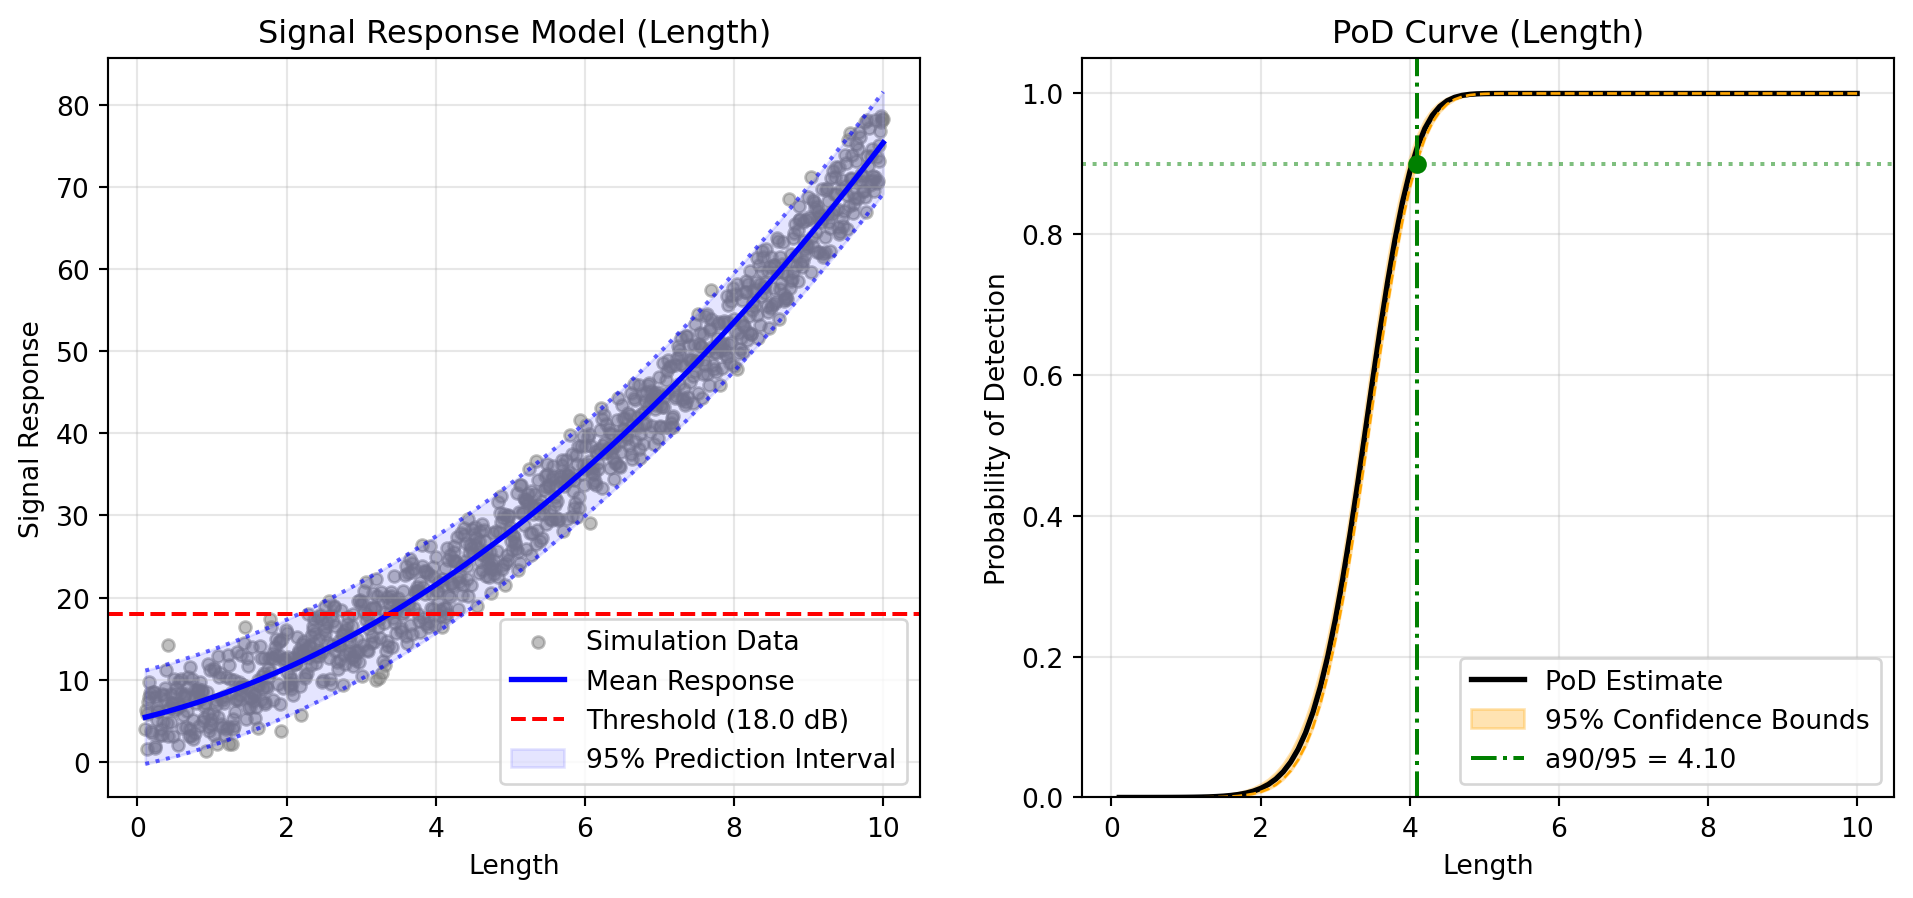
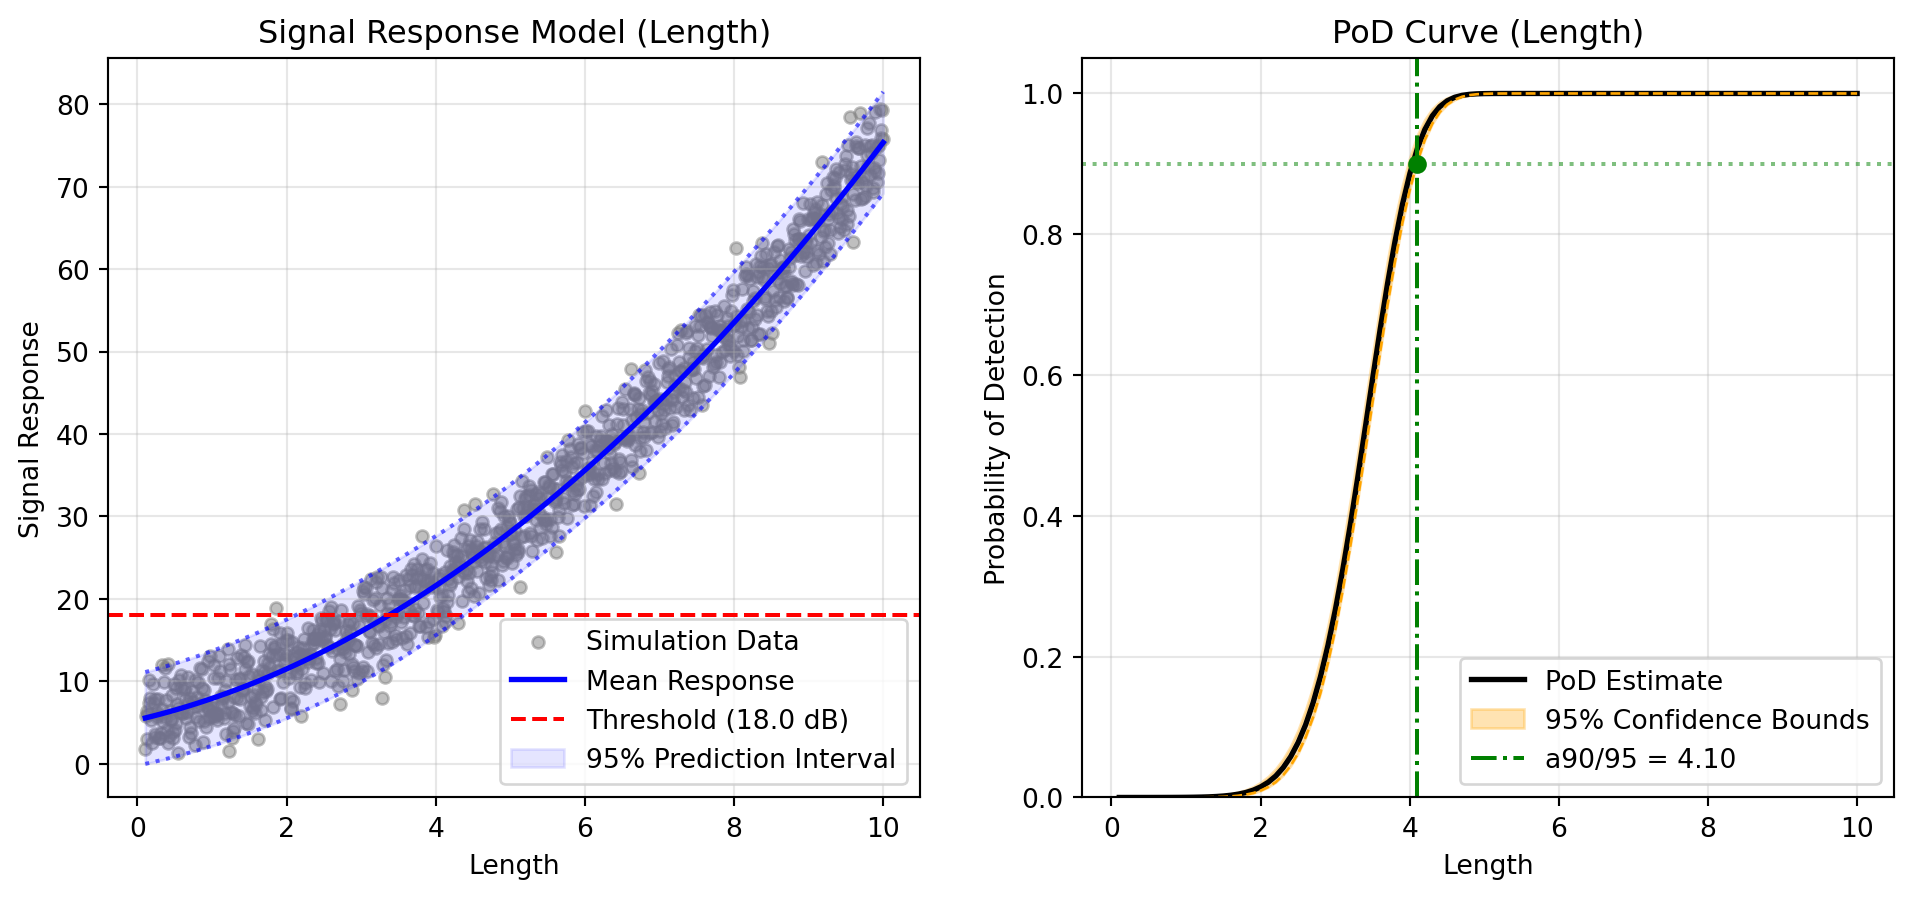
Built site for gh-pages

diff --git a/docs/quick_start_oop.html b/docs/quick_start_oop.html
@@ -433,7 +433,7 @@ pre > code.sourceCode > span > a:first-child::before { text-decoration: underlin
 <section id="setup-flawed-data-generation" class="level3">
 <h3 class="anchored" data-anchor-id="setup-flawed-data-generation">1. Setup &amp; “Flawed” Data Generation</h3>
 <p>First, we define our physics simulation and create a dataset with a deliberate gap (missing data between 3mm and 7mm).</p>
-<div id="e488e701" class="cell" data-execution_count="1">
+<div id="3f00dba5" class="cell" data-execution_count="1">
 <div class="code-copy-outer-scaffold"><div class="sourceCode cell-code" id="cb1"><pre class="sourceCode python code-with-copy"><code class="sourceCode python"><span id="cb1-1"><a href="#cb1-1" aria-hidden="true" tabindex="-1"></a><span class="im">import</span> numpy <span class="im">as</span> np</span>
 <span id="cb1-2"><a href="#cb1-2" aria-hidden="true" tabindex="-1"></a><span class="im">import</span> pandas <span class="im">as</span> pd</span>
 <span id="cb1-3"><a href="#cb1-3" aria-hidden="true" tabindex="-1"></a><span class="im">import</span> digiqual <span class="im">as</span> dq</span>
@@ -483,7 +483,7 @@ pre > code.sourceCode > span > a:first-child::before { text-decoration: underlin
 <section id="diagnosis-detecting-the-issue" class="level3">
 <h3 class="anchored" data-anchor-id="diagnosis-detecting-the-issue">2. Diagnosis (Detecting the Issue)</h3>
 <p>We now ask the study manager to diagnose the health of our experiment. We expect it to flag the Input Coverage test because of the gap we created.</p>
-<div id="aa82c071" class="cell" data-execution_count="2">
+<div id="60cc6ecb" class="cell" data-execution_count="2">
 <div class="code-copy-outer-scaffold"><div class="sourceCode cell-code" id="cb3"><pre class="sourceCode python code-with-copy"><code class="sourceCode python"><span id="cb3-1"><a href="#cb3-1" aria-hidden="true" tabindex="-1"></a>study.diagnose()</span></code></pre></div><button title="Copy to Clipboard" class="code-copy-button"><i class="bi"></i></button></div>
 <div class="cell-output cell-output-stdout">
 <pre><code>Running validation...
@@ -511,7 +511,7 @@ Checking sample sufficiency...</code></pre>
 <td>Input Coverage</td>
 <td>Length</td>
 <td>Max Gap Ratio</td>
-<td>0.4345</td>
+<td>0.4531</td>
 <td>False</td>
 </tr>
 <tr class="even">
@@ -519,7 +519,7 @@ Checking sample sufficiency...</code></pre>
 <td>Input Coverage</td>
 <td>Angle</td>
 <td>Max Gap Ratio</td>
-<td>0.0746</td>
+<td>0.0708</td>
 <td>True</td>
 </tr>
 <tr class="odd">
@@ -527,7 +527,7 @@ Checking sample sufficiency...</code></pre>
 <td>Input Coverage</td>
 <td>Roughness</td>
 <td>Max Gap Ratio</td>
-<td>0.0975</td>
+<td>0.0757</td>
 <td>True</td>
 </tr>
 <tr class="even">
@@ -535,7 +535,7 @@ Checking sample sufficiency...</code></pre>
 <td>Model Fit (CV)</td>
 <td>Signal</td>
 <td>Mean R2 Score</td>
-<td>0.9958</td>
+<td>0.9794</td>
 <td>True</td>
 </tr>
 <tr class="odd">
@@ -543,7 +543,7 @@ Checking sample sufficiency...</code></pre>
 <td>Bootstrap Convergence</td>
 <td>Signal</td>
 <td>Relative CI Width</td>
-<td>0.1035</td>
+<td>0.2036</td>
 <td>False</td>
 </tr>
 </tbody>
@@ -556,7 +556,7 @@ Checking sample sufficiency...</code></pre>
 <section id="adaptive-refinement-the-fix" class="level3">
 <h3 class="anchored" data-anchor-id="adaptive-refinement-the-fix">3. Adaptive Refinement (The Fix)</h3>
 <p>Instead of manually guessing where to add points, we use refine(). The study manager automatically detects the gap and generates targeted samples to fill it.</p>
-<div id="1e2c8f09" class="cell" data-execution_count="3">
+<div id="364c72f4" class="cell" data-execution_count="3">
 <div class="code-copy-outer-scaffold"><div class="sourceCode cell-code" id="cb5"><pre class="sourceCode python code-with-copy"><code class="sourceCode python"><span id="cb5-1"><a href="#cb5-1" aria-hidden="true" tabindex="-1"></a><span class="co"># Generate active learning samples (20 points to fill the gap)</span></span>
 <span id="cb5-2"><a href="#cb5-2" aria-hidden="true" tabindex="-1"></a>new_samples <span class="op">=</span> study.refine(n_points<span class="op">=</span><span class="dv">20</span>)</span>
 <span id="cb5-3"><a href="#cb5-3" aria-hidden="true" tabindex="-1"></a></span>
@@ -586,7 +586,7 @@ Checking sample sufficiency...</code></pre>
 </div>
 </div>
 <p>Now we verify that the issue is resolved:</p>
-<div id="601e1495" class="cell" data-execution_count="4">
+<div id="797e5dbe" class="cell" data-execution_count="4">
 <div class="code-copy-outer-scaffold"><div class="sourceCode cell-code" id="cb8"><pre class="sourceCode python code-with-copy"><code class="sourceCode python"><span id="cb8-1"><a href="#cb8-1" aria-hidden="true" tabindex="-1"></a><span class="co"># Re-run diagnostics to confirm the green light</span></span>
 <span id="cb8-2"><a href="#cb8-2" aria-hidden="true" tabindex="-1"></a>study.diagnose()</span></code></pre></div><button title="Copy to Clipboard" class="code-copy-button"><i class="bi"></i></button></div>
 <div class="cell-output cell-output-stdout">
@@ -615,7 +615,7 @@ Checking sample sufficiency...</code></pre>
 <td>Input Coverage</td>
 <td>Length</td>
 <td>Max Gap Ratio</td>
-<td>0.0454</td>
+<td>0.0530</td>
 <td>True</td>
 </tr>
 <tr class="even">
@@ -623,7 +623,7 @@ Checking sample sufficiency...</code></pre>
 <td>Input Coverage</td>
 <td>Angle</td>
 <td>Max Gap Ratio</td>
-<td>0.0629</td>
+<td>0.0693</td>
 <td>True</td>
 </tr>
 <tr class="odd">
@@ -631,7 +631,7 @@ Checking sample sufficiency...</code></pre>
 <td>Input Coverage</td>
 <td>Roughness</td>
 <td>Max Gap Ratio</td>
-<td>0.0643</td>
+<td>0.0515</td>
 <td>True</td>
 </tr>
 <tr class="even">
@@ -639,7 +639,7 @@ Checking sample sufficiency...</code></pre>
 <td>Model Fit (CV)</td>
 <td>Signal</td>
 <td>Mean R2 Score</td>
-<td>0.9968</td>
+<td>0.9972</td>
 <td>True</td>
 </tr>
 <tr class="odd">
@@ -647,7 +647,7 @@ Checking sample sufficiency...</code></pre>
 <td>Bootstrap Convergence</td>
 <td>Signal</td>
 <td>Relative CI Width</td>
-<td>0.0344</td>
+<td>0.0276</td>
 <td>True</td>
 </tr>
 </tbody>
@@ -667,9 +667,9 @@ Checking sample sufficiency...</code></pre>
 <div class="cell-output cell-output-stdout">
 <pre><code>--- Starting Reliability Analysis (PoI: Length) ---
 1. Selecting Mean Model (Cross-Validation)...
-   -&gt; Selected Polynomial Degree: 3
+   -&gt; Selected Polynomial Degree: 10
 2. Fitting Variance Model (Kernel Smoothing)...
-   -&gt; Smoothing Bandwidth: 0.9673
+   -&gt; Smoothing Bandwidth: 0.9143
 3. Inferring Error Distribution (AIC)...
    -&gt; Selected Distribution: norm
 4. Computing PoD Curve...

diff --git a/docs/quick_start_function.html b/docs/quick_start_function.html
@@ -462,7 +462,7 @@ window.Quarto = {
 <section id="generating-an-experimental-design" class="level3">
 <h3 class="anchored" data-anchor-id="generating-an-experimental-design">Generating an Experimental Design</h3>
 <p>Create a Latin Hypercube design for a simulation study involving defect size (<span class="math inline">\(a\)</span>), angle (<span class="math inline">\(\theta\)</span>) and roughness (<span class="math inline">\(\sigma_{R}\)</span>).</p>
-<div id="19460ca4" class="cell" data-execution_count="2">
+<div id="2734a6fe" class="cell" data-execution_count="2">
 <div class="code-copy-outer-scaffold"><div class="sourceCode cell-code" id="cb1"><pre class="sourceCode python code-with-copy"><code class="sourceCode python"><span id="cb1-1"><a href="#cb1-1" aria-hidden="true" tabindex="-1"></a><span class="im">import</span> pandas <span class="im">as</span> pd</span>
 <span id="cb1-2"><a href="#cb1-2" aria-hidden="true" tabindex="-1"></a><span class="im">import</span> numpy <span class="im">as</span> np</span>
 <span id="cb1-3"><a href="#cb1-3" aria-hidden="true" tabindex="-1"></a><span class="im">from</span> digiqual.sampling <span class="im">import</span> generate_lhs</span>
@@ -533,7 +533,7 @@ window.Quarto = {
 <section id="validating-simulation-data" class="level3">
 <h3 class="anchored" data-anchor-id="validating-simulation-data">Validating Simulation Data</h3>
 <p>Once you have your simulation results, ensure they are ready for PoD analysis.</p>
-<div id="12525562" class="cell" data-execution_count="3">
+<div id="f8a97d8a" class="cell" data-execution_count="3">
 <div class="code-copy-outer-scaffold"><div class="sourceCode cell-code" id="cb2"><pre class="sourceCode python code-with-copy"><code class="sourceCode python"><span id="cb2-1"><a href="#cb2-1" aria-hidden="true" tabindex="-1"></a><span class="im">from</span> digiqual.diagnostics <span class="im">import</span> validate_simulation</span>
 <span id="cb2-2"><a href="#cb2-2" aria-hidden="true" tabindex="-1"></a></span>
 <span id="cb2-3"><a href="#cb2-3" aria-hidden="true" tabindex="-1"></a><span class="kw">def</span> apply_physics(df):</span>
@@ -569,7 +569,7 @@ window.Quarto = {
 <section id="checking-sample-sufficiency" class="level3">
 <h3 class="anchored" data-anchor-id="checking-sample-sufficiency">Checking Sample Sufficiency</h3>
 <p>We have validated data so now we want to check if we have enough samples to produce an accurate PoD Curve.</p>
-<div id="a2f680f0" class="cell" data-execution_count="4">
+<div id="67380f5f" class="cell" data-execution_count="4">
 <div class="code-copy-outer-scaffold"><div class="sourceCode cell-code" id="cb3"><pre class="sourceCode python code-with-copy"><code class="sourceCode python"><span id="cb3-1"><a href="#cb3-1" aria-hidden="true" tabindex="-1"></a><span class="im">from</span> digiqual.diagnostics <span class="im">import</span> sample_sufficiency</span>
 <span id="cb3-2"><a href="#cb3-2" aria-hidden="true" tabindex="-1"></a></span>
 <span id="cb3-3"><a href="#cb3-3" aria-hidden="true" tabindex="-1"></a>ss <span class="op">=</span> sample_sufficiency(</span>
@@ -599,7 +599,7 @@ window.Quarto = {
 <td>Input Coverage</td>
 <td>Length</td>
 <td>Max Gap Ratio</td>
-<td>0.0024</td>
+<td>0.0019</td>
 <td>True</td>
 </tr>
 <tr class="even">
@@ -623,7 +623,7 @@ window.Quarto = {
 <td>Model Fit (CV)</td>
 <td>Signal</td>
 <td>Mean R2 Score</td>
-<td>0.9949</td>
+<td>0.9942</td>
 <td>True</td>
 </tr>
 <tr class="odd">
@@ -631,7 +631,7 @@ window.Quarto = {
 <td>Bootstrap Convergence</td>
 <td>Signal</td>
 <td>Relative CI Width</td>
-<td>0.0144</td>
+<td>0.0147</td>
 <td>True</td>
 </tr>
 </tbody>
@@ -644,7 +644,7 @@ window.Quarto = {
 <section id="adaptive-refinement-check" class="level3">
 <h3 class="anchored" data-anchor-id="adaptive-refinement-check">Adaptive Refinement Check</h3>
 <p>We now run the targeted sampler. Because <code>generate_lhs</code> provides good coverage by default, we expect the adaptive module to return an empty result, confirming no more work is needed.</p>
-<div id="1ee5a055" class="cell" data-execution_count="5">
+<div id="253306b7" class="cell" data-execution_count="5">
 <div class="code-copy-outer-scaffold"><div class="sourceCode cell-code" id="cb4"><pre class="sourceCode python code-with-copy"><code class="sourceCode python"><span id="cb4-1"><a href="#cb4-1" aria-hidden="true" tabindex="-1"></a><span class="im">from</span> digiqual.adaptive <span class="im">import</span> generate_targeted_samples</span>
 <span id="cb4-2"><a href="#cb4-2" aria-hidden="true" tabindex="-1"></a></span>
 <span id="cb4-3"><a href="#cb4-3" aria-hidden="true" tabindex="-1"></a>new_samples <span class="op">=</span> generate_targeted_samples(</span>
